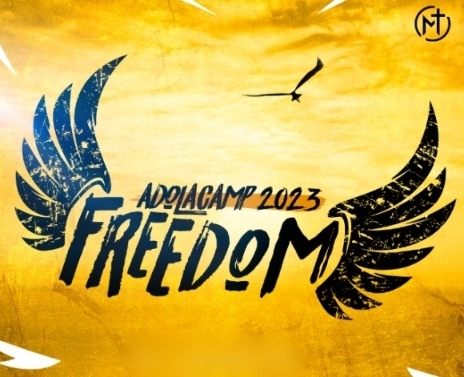
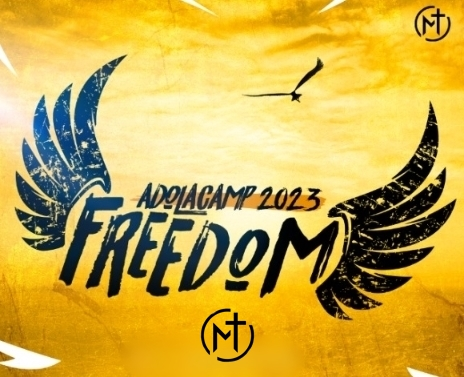
acertando a imagem de perfil e consertando o texto informativo

Changed region(s): [[0.4224, 0.817, 0.5733, 0.9629]]

diff --git a/index.html b/index.html
@@ -13,7 +13,8 @@
         <img src="adolacamp.jpg" alt="perfil">
         <h1 class="titulo">freedom 2023</h1>
         <h4 class="titulo2">parabéns, você ganhou um vale bíblia! para retirá-la,
-            clique no botão abaixo e procure uma de nossas igrejas mais perto de você. Deus te abençoe!</h4>
+            clique no botão abaixo e procure uma de nossas igrejas mais perto de você.
+            <br>Deus te abençoe!<br></h4>
         <a class="titulo2" target="_blank" href="https://www.igrejamaranata.com.br/igrejas/">igreja maranata</a>
     </div>
     <div class="link-bio2">
